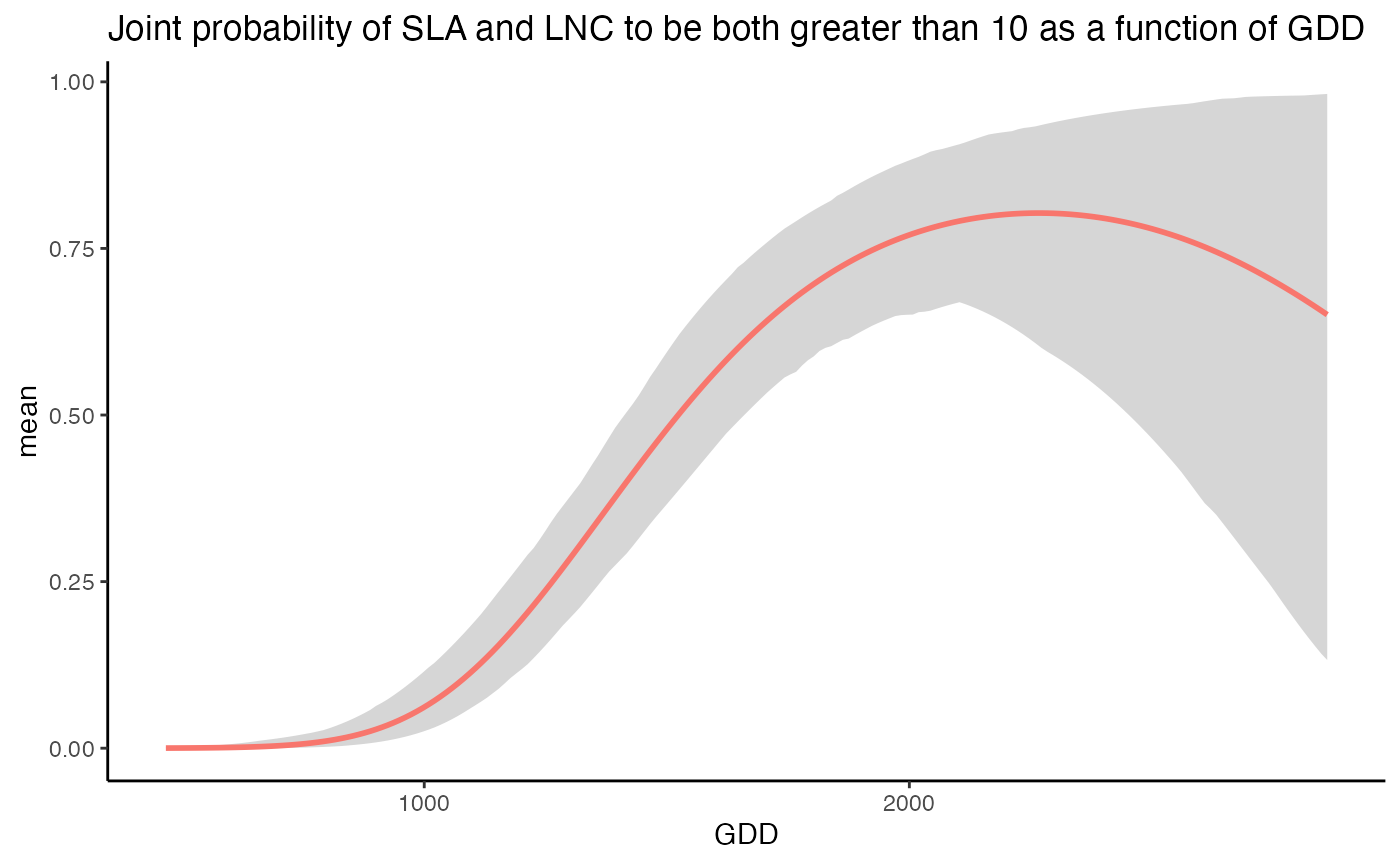
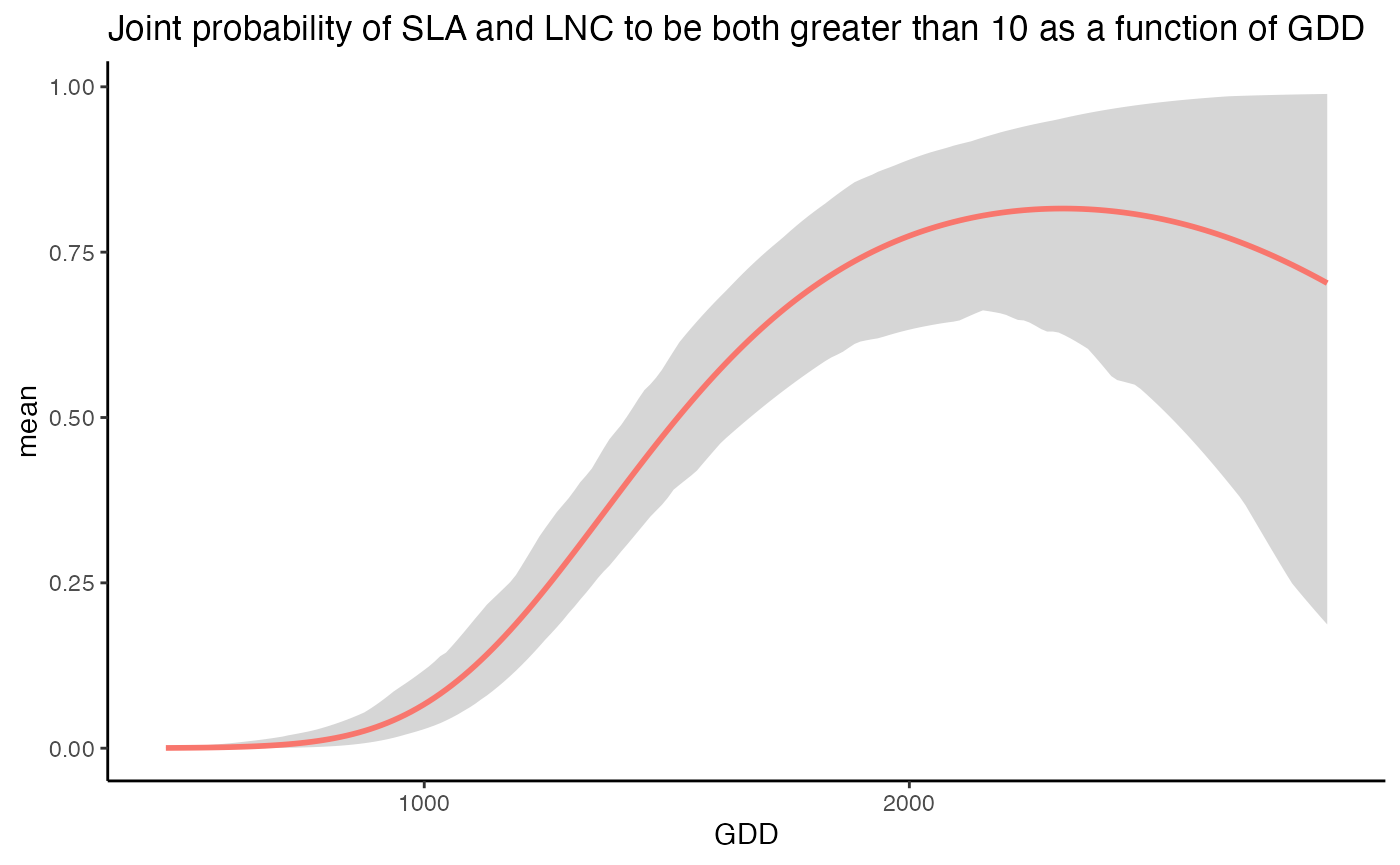
docs

diff --git a/docs/articles/Alpine_grasslands.html b/docs/articles/Alpine_grasslands.html
@@ -184,21 +184,21 @@
 <code class="sourceCode R"><span><span class="va">predictions</span> <span class="op">=</span> <span class="fu"><a href="../reference/jtdm_predict.html">jtdm_predict</a></span><span class="op">(</span><span class="va">m</span>,Xnew<span class="op">=</span><span class="va">X</span>,Ynew<span class="op">=</span><span class="va">Y</span>,validation<span class="op">=</span><span class="cn">T</span>, FullPost<span class="op">=</span><span class="cn">F</span><span class="op">)</span></span>
 <span><span class="va">predictions</span><span class="op">$</span><span class="va">R2</span></span></code></pre></div>
 <pre><code><span><span class="co">##       SLA       LNC    Height </span></span>
-<span><span class="co">## 0.5878591 0.3520138 0.5202295</span></span></code></pre>
+<span><span class="co">## 0.5852556 0.3491228 0.5201694</span></span></code></pre>
 <div class="sourceCode" id="cb13"><pre class="downlit sourceCode r">
 <code class="sourceCode R"><span><span class="va">predictions</span><span class="op">$</span><span class="va">RMSE</span></span></code></pre></div>
 <pre><code><span><span class="co">##      SLA      LNC   Height </span></span>
-<span><span class="co">## 7.600184 2.799943 9.138832</span></span></code></pre>
+<span><span class="co">## 7.626910 2.807625 9.139582</span></span></code></pre>
 <p>We can evaluate the performances of the model using a K-fold cross-validation using the function <code>jtdmCV</code></p>
 <div class="sourceCode" id="cb15"><pre class="downlit sourceCode r">
 <code class="sourceCode R"><span><span class="va">predictionsCV</span> <span class="op">=</span> <span class="fu"><a href="../reference/jtdmCV.html">jtdmCV</a></span><span class="op">(</span><span class="va">m</span>,K<span class="op">=</span><span class="fl">5</span><span class="op">)</span></span></code></pre></div>
 <div class="sourceCode" id="cb16"><pre class="downlit sourceCode r">
 <code class="sourceCode R"><span><span class="va">predictionsCV</span><span class="op">$</span><span class="va">R2</span></span></code></pre></div>
 <pre><code><span><span class="co">##       SLA       LNC    Height </span></span>
-<span><span class="co">## 0.5291827 0.2946027 0.4478547</span></span></code></pre>
+<span><span class="co">## 0.4927656 0.2315166 0.4619513</span></span></code></pre>
 <div class="sourceCode" id="cb18"><pre class="downlit sourceCode r">
 <code class="sourceCode R"><span><span class="va">predictionsCV</span><span class="op">$</span><span class="va">RMSE</span></span></code></pre></div>
-<pre><code><span><span class="co">## [1] 8.222054 3.060597 9.860061</span></span></code></pre>
+<pre><code><span><span class="co">## [1]  8.473379  3.322575 10.244287</span></span></code></pre>
 </div>
 <div class="section level3">
 <h3 id="trait-environment-relationships">Trait-environment relationships<a class="anchor" aria-label="anchor" href="#trait-environment-relationships"></a>
@@ -228,8 +228,8 @@
 <p>The <code>jtdm</code> package allows to define a region in the community-trait space and compute their joint probabilities for a given set of environmental conditions. This is done by the function <code>joint_trait_prob</code>. To define a given region in the community-trait space, the user has to define the focal traits <code>indexTrait</code> (any number of traits is accepted) and trait-specific tresholds through the parameter <code>bounds</code>. <code>bounds</code> is a list of the length of <code>indexTrait</code>, where each element of the list is a vector of length two. The vector represents the inferior and superior bounds of the region for the specified trait. For example, if we consider two traits (e.g. SLA and LNC), <code>bounds=list(c(20,Inf),c(20,Inf))</code> corresponds to the region in the community-trait space where both SLA and LNC both take values greater than 20. We can then define the sites (i.e. the set of environmental conditions) in which to compute joint probabilities. For example we can compute joint probabilities of both SLA and LNC to be greater than 20 in a high altitude site. This measures the relative suitability of communities where both SLA and LNC are higher than 20 in a high altitude site.</p>
 <div class="sourceCode" id="cb24"><pre class="downlit sourceCode r">
 <code class="sourceCode R"><span><span class="fu"><a href="../reference/joint_trait_prob.html">joint_trait_prob</a></span><span class="op">(</span><span class="va">m</span>,indexTrait<span class="op">=</span><span class="fu"><a href="https://rdrr.io/r/base/c.html" class="external-link">c</a></span><span class="op">(</span><span class="st">"SLA"</span>,<span class="st">"LNC"</span><span class="op">)</span>, Xnew<span class="op">=</span><span class="va">X</span><span class="op">[</span><span class="st">"VCHA_2940"</span>,<span class="op">]</span>, bounds<span class="op">=</span><span class="fu"><a href="https://rdrr.io/r/base/list.html" class="external-link">list</a></span><span class="op">(</span><span class="fu"><a href="https://rdrr.io/r/base/c.html" class="external-link">c</a></span><span class="op">(</span><span class="fl">20</span>,<span class="cn">Inf</span><span class="op">)</span>,<span class="fu"><a href="https://rdrr.io/r/base/c.html" class="external-link">c</a></span><span class="op">(</span><span class="fl">20</span>,<span class="cn">Inf</span><span class="op">)</span><span class="op">)</span><span class="op">)</span><span class="op">$</span><span class="va">PROBmean</span></span></code></pre></div>
-<pre><code><span><span class="co">##        1 </span></span>
-<span><span class="co">## 0.113873</span></span></code></pre>
+<pre><code><span><span class="co">##         1 </span></span>
+<span><span class="co">## 0.1091164</span></span></code></pre>
 <p>Unsurprisingly, the probability is low. Then, we compute how this probability vary along the GDD gradient using the function <code>joint_trait_prob_gradient</code>. The function builts a dataframe where the focal variable varies along a gradient and the other (non-focal) variables are fixed to their mean (but see FixX parameter for fixing non-focal variables to user-defined values) and predict the joint probabilities along the gradient.</p>
 <div class="sourceCode" id="cb26"><pre class="downlit sourceCode r">
 <code class="sourceCode R"><span><span class="va">joint</span><span class="op">=</span><span class="fu"><a href="../reference/joint_trait_prob_gradient.html">joint_trait_prob_gradient</a></span><span class="op">(</span><span class="va">m</span>,indexTrait<span class="op">=</span><span class="fu"><a href="https://rdrr.io/r/base/c.html" class="external-link">c</a></span><span class="op">(</span><span class="st">"SLA"</span>,<span class="st">"LNC"</span><span class="op">)</span>, indexGradient<span class="op">=</span><span class="st">"GDD"</span>, bounds<span class="op">=</span><span class="fu"><a href="https://rdrr.io/r/base/list.html" class="external-link">list</a></span><span class="op">(</span><span class="fu"><a href="https://rdrr.io/r/base/c.html" class="external-link">c</a></span><span class="op">(</span><span class="fu"><a href="https://rdrr.io/r/base/mean.html" class="external-link">mean</a></span><span class="op">(</span><span class="va">Y</span><span class="op">[</span>,<span class="st">"SLA"</span><span class="op">]</span><span class="op">)</span>,<span class="cn">Inf</span><span class="op">)</span>,<span class="fu"><a href="https://rdrr.io/r/base/c.html" class="external-link">c</a></span><span class="op">(</span><span class="fu"><a href="https://rdrr.io/r/base/mean.html" class="external-link">mean</a></span><span class="op">(</span><span class="va">Y</span><span class="op">[</span>,<span class="st">"SLA"</span><span class="op">]</span><span class="op">)</span>,<span class="cn">Inf</span><span class="op">)</span><span class="op">)</span><span class="op">)</span></span></code></pre></div>

diff --git a/docs/reference/jtdmCV.html b/docs/reference/jtdmCV.html
@@ -181,6 +181,7 @@
 <span class="r-out co"><span class="r-pr">#&gt;</span> Simulation complete</span>
 <span class="r-out co"><span class="r-pr">#&gt;</span> Calculating summary statistics...</span>
 <span class="r-out co"><span class="r-pr">#&gt;</span> Calculating the Gelman-Rubin statistic for 21 variables....</span>
+<span class="r-out co"><span class="r-pr">#&gt;</span> Note: Unable to calculate the multivariate psrf</span>
 <span class="r-out co"><span class="r-pr">#&gt;</span> Finished running the simulation</span>
 <span class="r-out co"><span class="r-pr">#&gt;</span> Fold  4  out of  5 </span>
 <span class="r-out co"><span class="r-pr">#&gt;</span> Compiling rjags model...</span>
